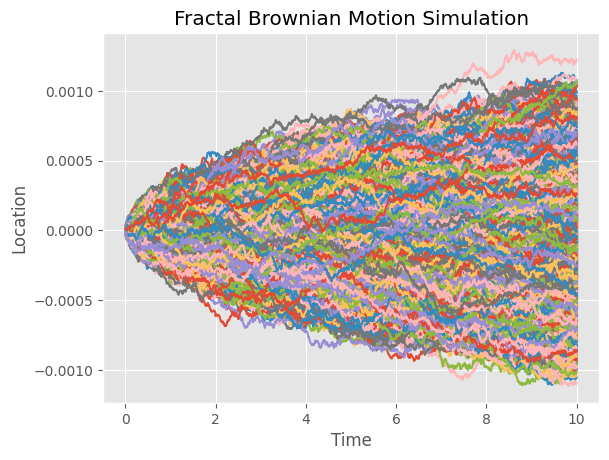
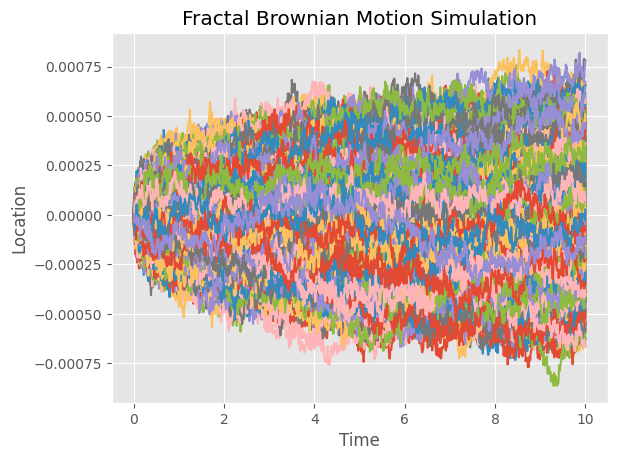
5

diff --git a/main.py b/main.py
@@ -85,10 +85,11 @@ def create_covariance_matrix(hurst: float, times: list[float]):
 
 
 def create_standard_gaussian_vector(n: int):
-    standard_gaussian_vector: list[float] = [0] * n
+    standard_gaussian_vector: list = [0] * n
 
     for index in range(n):
-        standard_gaussian_vector[index] = np.random.normal(0, 0.0001, 1)
+        arr = np.random.normal(0, 0.0001, 1)
+        standard_gaussian_vector[index] = arr[0]
 
     return standard_gaussian_vector
 
@@ -133,6 +134,7 @@ def calculate_fbm(hurst: float, n: int, num_paths: int = 1, cholesky_rows = None
         print(f"[{index}] {u[0]}")
 
     msd: list[float] = [0] * len(times)
+    msd_ratio: list[float] = [0] * len(times)
 
     index = 0
 
@@ -156,8 +158,9 @@ def calculate_fbm(hurst: float, n: int, num_paths: int = 1, cholesky_rows = None
         t_msd = t_msd_sum / len(u)
         th: float = t ** h
         ratio: float = t_msd / th
-        print(f"[{index}] t={t}, t_msd={t_msd}, th={th}, ratio={ratio}")
         msd[index] = t_msd
+        msd_ratio[index] = ratio
+        print(f"[{index}] t={t}, t_msd={t_msd}, th={th}, ratio={ratio}")
 
     t_arr = np.array(times)
 
@@ -174,17 +177,32 @@ def calculate_fbm(hurst: float, n: int, num_paths: int = 1, cholesky_rows = None
     if num_paths < 10:
         plt.legend(loc="upper left")
     
-    plt.title("Fractal Brownian Motion Simulation")
+    plt.title(f"Fractal Brownian Motion Simulation, Hurst={hurst}")
     plt.xlabel("Time")
     plt.ylabel("Location")
     #plt.show()
     plt.savefig(f'fractal_brownian_motion_simulation_{hurst}.png', bbox_inches='tight')
     plt.close(fig=fig)
 
+    msd_arr = np.array(msd_ratio)
+
+    plt.style.use('ggplot')
+
+    fig, ax = plt.subplots()
+    
+    ax.plot(t_arr, msd_arr, label=f"path {counter}")
+
+    plt.title(f"Fractal Brownian Motion MSD Simulation, Hurst={hurst}")
+    plt.xlabel("Time")
+    plt.ylabel("MSD Ratio")
+    #plt.show()
+    plt.savefig(f'fbm_msd_{hurst}.png', bbox_inches='tight')
+    plt.close(fig=fig)
+
     return cholesky_rows
 
 cholesky_rows = None
 
-cholesky_rows = calculate_fbm(hurst=0.5, n=1000, num_paths=25000)
-cholesky_rows = calculate_fbm(hurst=0.25, n=999, num_paths=25000)
-cholesky_rows = calculate_fbm(hurst=0.75, n=999, num_paths=25000)
+cholesky_rows = calculate_fbm(hurst=0.5, n=1285, num_paths=28500)
+cholesky_rows = calculate_fbm(hurst=0.25, n=1285, num_paths=28500)
+cholesky_rows = calculate_fbm(hurst=0.75, n=1285, num_paths=28500)
